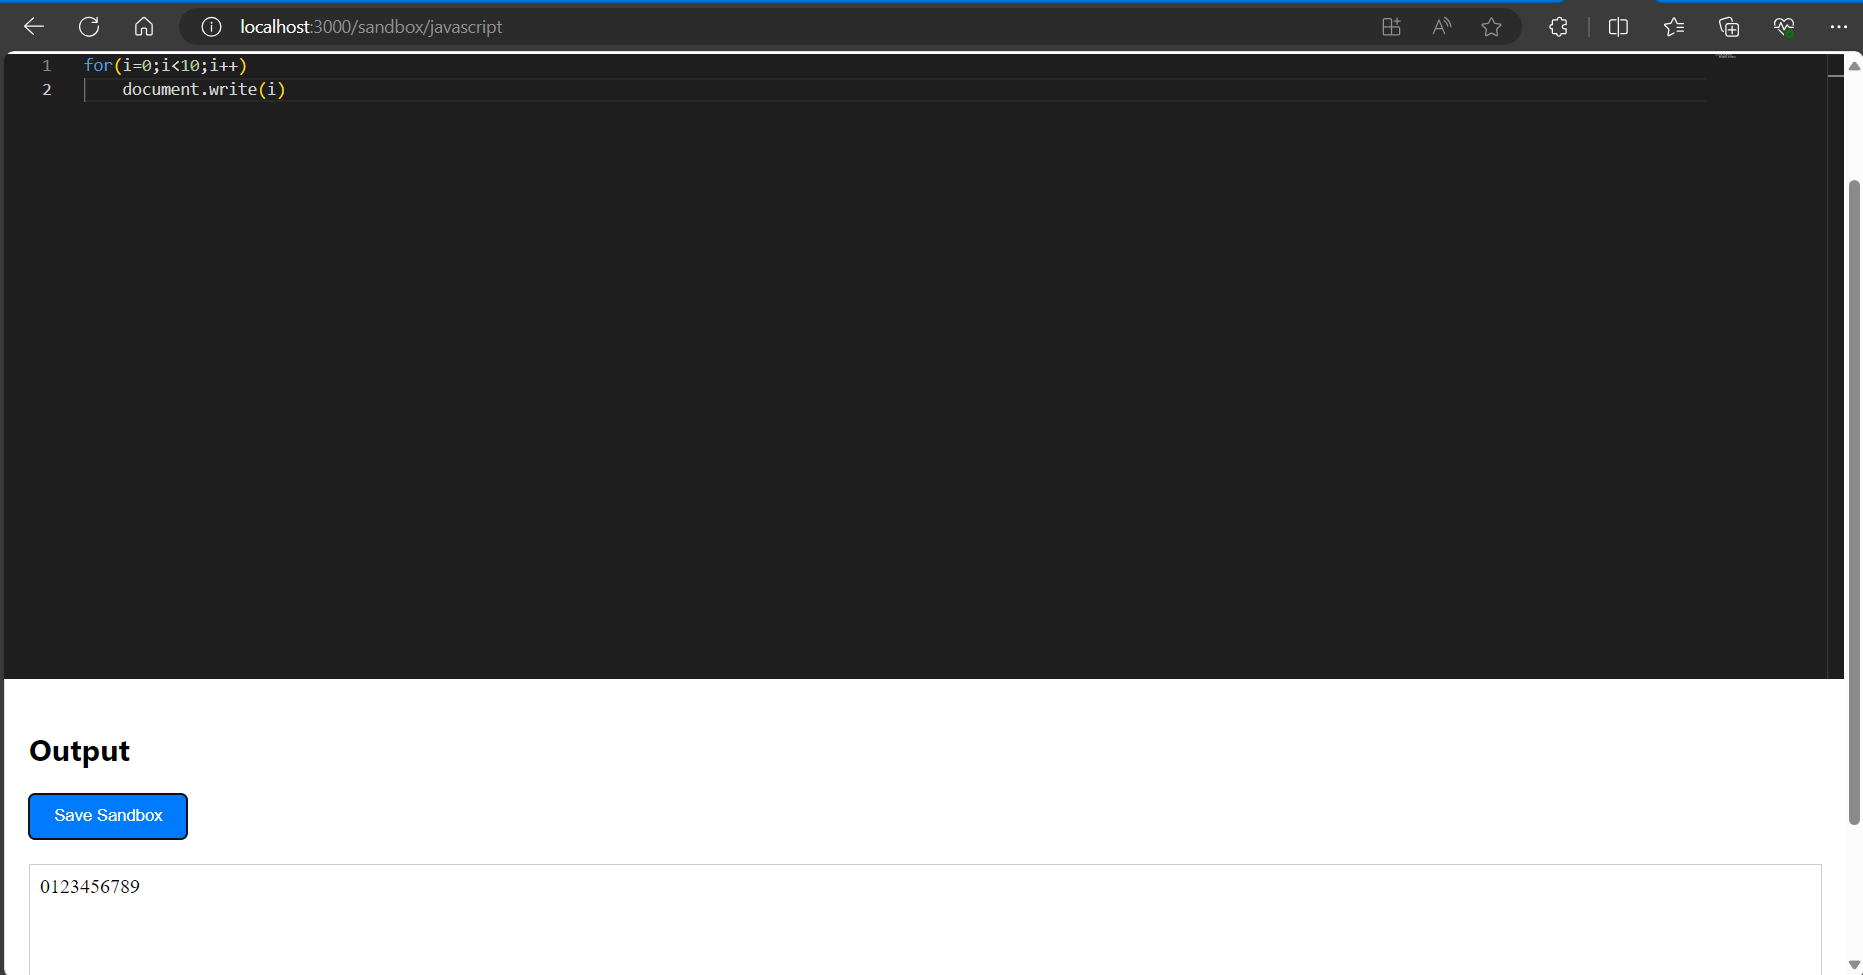
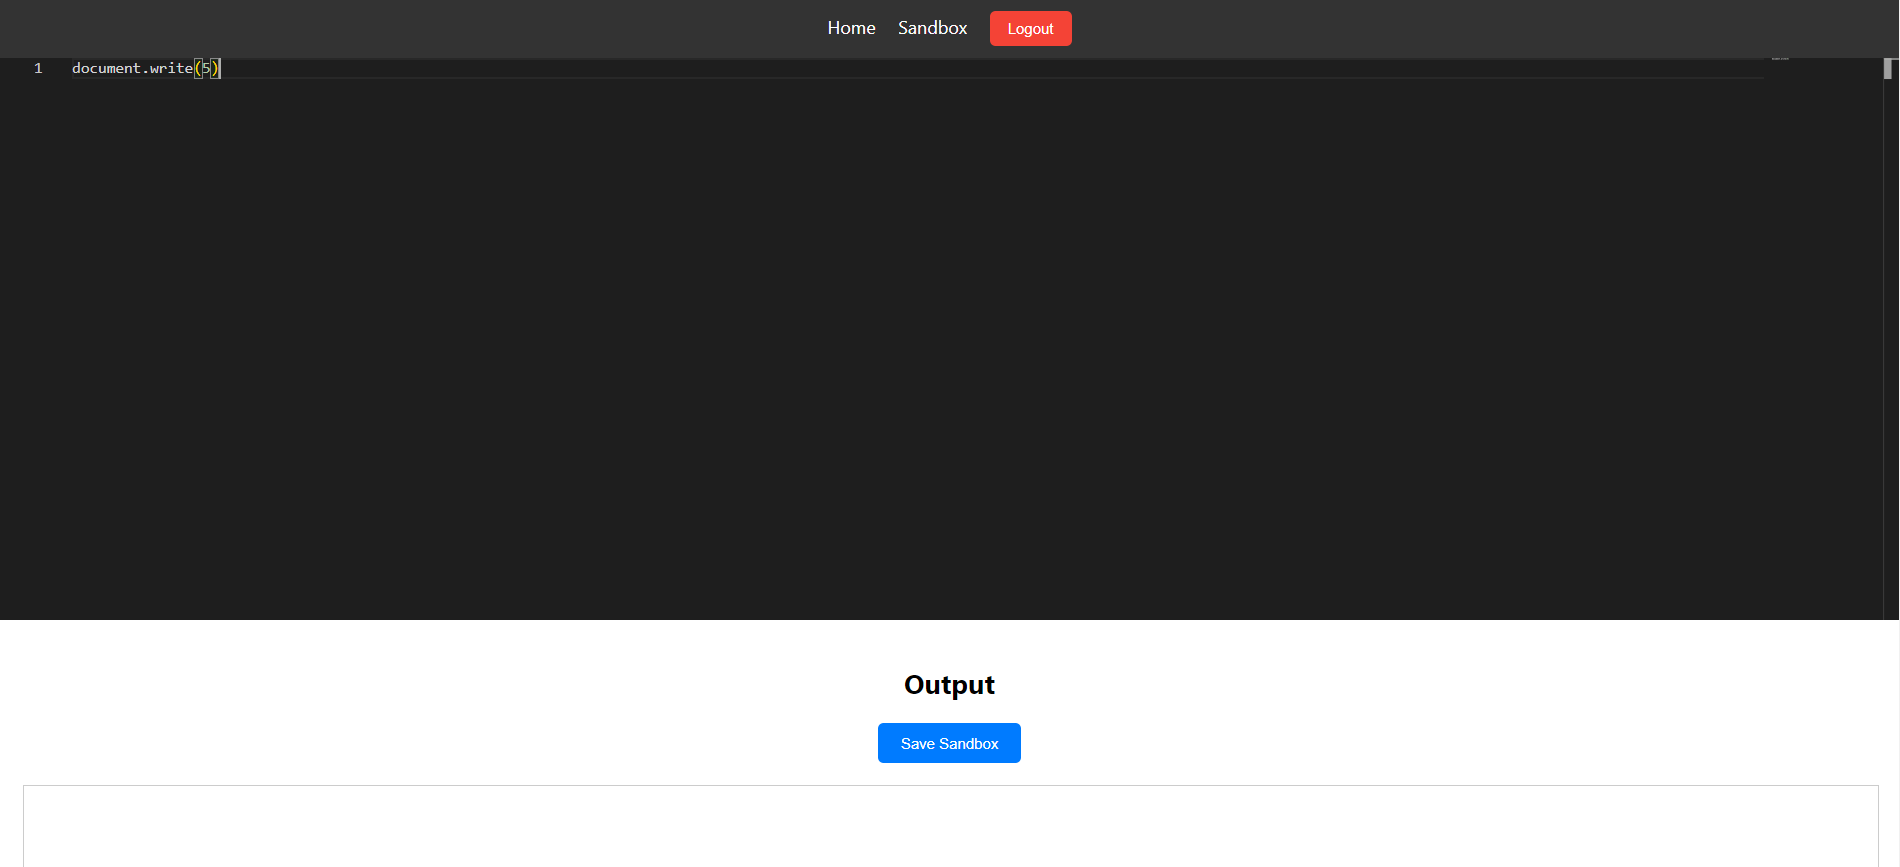
Tweaked App.js - added nav, logout

diff --git a/backend/server.js b/backend/server.js
@@ -4,7 +4,6 @@ const bodyParser = require('body-parser');
 const jwt = require('jsonwebtoken');
 const cors = require('cors');
 const Sandbox = require('./models/Sandbox');
-const sandboxRouter = require('./routes/sandbox');
 
 const app = express();
 app.use(bodyParser.json());
@@ -17,7 +16,7 @@ mongoose.connect('mongodb+srv://admin:admin@cluster0.qiriojy.mongodb.net/')
   .then(() => console.log('MongoDB connected'))
   .catch(err => console.error(err));
 
-// Define User schema
+// usr model
 const userSchema = new mongoose.Schema({
   username: String,
   password: String
@@ -25,14 +24,6 @@ const userSchema = new mongoose.Schema({
 
 const User = mongoose.model('User', userSchema);
 
-// Define Sandbox schema
-//const sandboxSchema = new mongoose.Schema({
-  // userId: String,
-  // code: String,
-  // output: String
-//});
-
-//const Sandbox = mongoose.model('Sandbox', sandboxSchema);
 
 // Login endpoint
 app.post('/login', async (req, res) => {
@@ -43,7 +34,6 @@ app.post('/login', async (req, res) => {
       return res.status(401).json({ message: 'Invalid username or password' });
     }
     const token = jwt.sign({ userId: user._id }, secretKey);
-    // Return the token along with the userId
     res.json({ token, userId: user._id });
   } catch (error) {
     res.status(500).json({ message: error.message });
@@ -64,68 +54,56 @@ app.post('/signup', async (req, res) => {
   }
 });
 
-// Middleware to verify JWT token
-// function verifyToken(req, res, next) {
-//   const token = req.headers['authorization'];
-//   if (!token) return res.status(401).json({ message: 'Token is required' });
 
-//   jwt.verify(token, secretKey, (err, decoded) => {
-//     if (err) return res.status(401).json({ message: 'Invalid token' });
+function verifyToken(req, res, next) {
+  const token = req.headers['authorization'];
+  if (!token) return res.status(401).json({ message: 'Token is required' });
 
-//     req.userId = decoded.userId;
-//     next();
-//   });
-// }
+  jwt.verify(token, secretKey, (err, decoded) => {
+    if (err) return res.status(401).json({ message: 'Invalid token' });
+
+    req.userId = decoded.userId;
+    next();
+  });
+}
 
 app.post('/api/sandbox', async (req, res) => {
   const { userId, code, output } = req.body;
   console.log('Request Payload:', req.body);
 
   try {
-    // Create a new Sandbox document
     const newSandbox = new Sandbox({
       userId: userId,
       code: code,
-      output: output || '' // Set output to empty string if not provided
+      output: output || ''
     });
 
-    // Save the sandbox data to MongoDB
     await newSandbox.save();
-
     // Log success message
     console.log('Sandbox data saved successfully:', newSandbox);
-
-    // Send success response to the client
     res.status(201).json({ message: 'Sandbox data saved successfully', sandbox: newSandbox });
   } catch (error) {
-    // Log error message
+   
     console.error('Error saving sandbox data:', error);
-
-    // Send error response to the client
     res.status(500).json({ message: 'Failed to save sandbox data', error: error.message });
   }
 });
 
-// Modify the route to handle requests to retrieve sandbox information by userId
+
 app.get('/api/sandbox/:userId', async (req, res) => {
   const userId = req.params.userId;
 
   try {
     // Find the sandbox by userId in the database
     const sandboxes = await Sandbox.find({ userId });
-    
-    // If sandboxes are found, return them in the response
     res.json(sandboxes);
   } catch (error) {
-    // If an error occurs, return a 500 Internal Server Error
+
     res.status(500).json({ message: 'Internal Server Error' });
   }
 });
 
 
-
-
-//app.use('/api/sandbox', sandboxRouter);
 // Start server
 const port = process.env.PORT || 5000;
 app.listen(port, () => console.log(`Server is running on port ${port}`));

diff --git a/frontend/src/App.js b/frontend/src/App.js
@@ -1,41 +1,46 @@
 import React, { useState } from 'react';
-import { BrowserRouter as Router, Routes, Route, Link, useNavigate } from 'react-router-dom';
+import { BrowserRouter as Router, Routes, Route, Link } from 'react-router-dom';
 import Login from './components/Login';
 import Signup from './components/Signup';
 import Home from './components/Home';
 import Sandbox from './components/Sandbox';
+import './App.css'
 
 function App() {
   const [isAuthenticated, setIsAuthenticated] = useState(false);
-  const [userId, setUserId] = useState(null); // Add userId state
+  const [userId, setUserId] = useState(null); 
 
   const handleLoginSuccess = (userId) => {
     setIsAuthenticated(true);
     setUserId(userId);
-    console.log(userId)
   };
 
   const handleSignupSuccess = () => {
     setIsAuthenticated(true);
   };
 
+  const handleLogout = () => {
+    setIsAuthenticated(false);
+    setUserId(null);
+  };
+
   return (
     <Router>
       <div className="App">
-        <nav>
-          <ul>
+        <nav className="navbar">
+          <ul className="nav-links">
             <li><Link to="/">Home</Link></li>
-            <li><Link to="/login">Login</Link></li>
-            <li><Link to="/signup">Signup</Link></li>
-            <li><Link to="/sandbox/javascript">Sandbox</Link></li>
+            {!isAuthenticated && <li><Link to="/login">Login</Link></li>}
+            {!isAuthenticated && <li><Link to="/signup">Signup</Link></li>}
+            {isAuthenticated && <li><Link to="/sandbox/javascript">Sandbox</Link></li>}
+            {isAuthenticated && <li><button onClick={handleLogout}>Logout</button></li>}
           </ul>
         </nav>
 
         <Routes>
           <Route path="/login" element={<Login onLoginSuccess={handleLoginSuccess} />} />
           <Route path="/signup" element={<Signup onSignupSuccess={handleSignupSuccess} />} />
-          {/* Pass userId as a prop to Sandbox component */}
-          <Route path="/sandbox/javascript" element={<Sandbox userId={userId} />} />
+          <Route path="/sandbox/javascript" element={isAuthenticated ? <Sandbox userId={userId} /> : <Login />} />
           <Route path="/" element={<Home isAuthenticated={isAuthenticated} userId={userId} />} />
         </Routes>
       </div>

diff --git a/frontend/src/App.css b/frontend/src/App.css
@@ -36,3 +36,48 @@
     transform: rotate(360deg);
   }
 }
+
+/* Navigation Bar */
+/* styles.css */
+.navbar {
+  background-color: #333; /* Background color for the navbar */
+  padding: 10px; /* Padding for the navbar */
+}
+
+.nav-links {
+  list-style-type: none; /* Remove bullet points from the list */
+  margin: 0; /* Remove default margin */
+  padding: 0; /* Remove default padding */
+}
+
+.nav-links li {
+  display: inline; /* Display list items horizontally */
+  margin-right: 20px; /* Add spacing between list items */
+}
+
+.nav-links li:last-child {
+  margin-right: 0; /* Remove margin from the last list item */
+}
+
+.nav-links li a {
+  color: #fff; /* Text color for the links */
+  text-decoration: none; /* Remove underline from the links */
+}
+
+.nav-links li a:hover {
+  text-decoration: underline; /* Underline links on hover */
+}
+
+.nav-links li button {
+  background-color: #f44336; /* Red color for the logout button background */
+  color: #fff; /* White color for the logout button text */
+  border: none; /* Remove button border */
+  padding: 8px 16px; /* Add padding to the button */
+  border-radius: 5px; /* Add border radius for rounded corners */
+  cursor: pointer; /* Change cursor to pointer on hover */
+  transition: background-color 0.3s ease; /* Smooth transition for background color change */
+}
+
+.nav-links li button:hover {
+  background-color: #d32f2f; /* Darker red color on button hover */
+}

diff --git a/frontend/src/components/Sandbox.js b/frontend/src/components/Sandbox.js
@@ -7,12 +7,11 @@ const Sandbox = ({ userId }) => {
   const [code, setCode] = useState('');
   const [isCodeRunning, setIsCodeRunning] = useState(false);
 
-  // Function to handle acknowledging the end of code execution
+  //acknowledge end
   const handleAcknowledgeEnd = async () => {
-    setIsCodeRunning(true); // Set code running state to true
+    setIsCodeRunning(true); 
   };
 
-  // Function to save the sandbox
   const saveSandbox = async (output) => {
     try {
       // Remove the code part from the output
@@ -21,16 +20,16 @@ const Sandbox = ({ userId }) => {
       const response = await axios.post('http://localhost:5000/api/sandbox', {
         userId: userId,
         code: code,
-        output: cleanedOutput || '' // Set output to empty string if not provided
+        output: cleanedOutput || '' 
       });
-      console.log(response.data); // Log response for debugging
+      console.log(response.data); // debug
       alert('Sandbox saved successfully!');
     } catch (error) {
       console.error('Error saving sandbox:', error);
     }
   };
 
-  // useEffect hook to save the sandbox when the code running state changes
+  
   useEffect(() => {
     if (isCodeRunning) {
       // Get the iframe element

diff --git a/frontend/src/components/Login.js b/frontend/src/components/Login.js
@@ -12,13 +12,10 @@ const Login = ({ onLoginSuccess }) => {
   const handleSubmit = async (e) => {
     e.preventDefault();
     try {
-      const response = await axios.post('http://localhost:5000/login', { username, password });
-      // Assuming the response contains the userId
+      const response = await axios.post('http://localhost:5000/login', { username, password })
       const { userId } = response.data;
       console.log(response.data)
-      // Call the onLoginSuccess function with userId
       onLoginSuccess(userId);
-      // Navigate to Home after successful login
       navigate('/');
     } catch (error) {
       setError(error.response.data.message);

diff --git a/frontend/src/components/Signup.js b/frontend/src/components/Signup.js
@@ -13,9 +13,7 @@ const Signup = ({ onSignupSuccess }) => {
     e.preventDefault();
     try {
       const response = await axios.post('http://localhost:5000/signup', { username, password });
-      // Handle successful signup
       onSignupSuccess();
-      // Navigate to Home after successful signup
       navigate('/');
     } catch (error) {
       setError(error.response.data.message);

diff --git a/frontend/src/components/Home.js b/frontend/src/components/Home.js
@@ -23,7 +23,7 @@ const Home = ({ isAuthenticated, userId }) => {
 
   return (
     <div className="home-container">
-      <h2>Home</h2>
+      <h2>CodeSandBox - from Adithya</h2>
       <p className="home-message">
         {isAuthenticated ? 'You are logged in!' : 'Please login or signup to continue.'}
       </p>

diff --git a/frontend/src/components/Login.css b/frontend/src/components/Login.css
@@ -9,6 +9,7 @@
   .login-form {
     width: 300px;
     padding: 20px;
+    padding-right: 40px;
     border: 1px solid #ccc;
     border-radius: 5px;
   }

diff --git a/frontend/src/components/Signup.css b/frontend/src/components/Signup.css
@@ -11,6 +11,7 @@
     padding: 20px;
     border: 1px solid #ccc;
     border-radius: 5px;
+    padding-right: 40px;
   }
   
   .signup-form input {

diff --git a/frontend/src/components/Sandbox.css b/frontend/src/components/Sandbox.css
@@ -40,3 +40,4 @@
 .output-text {
   white-space: pre-wrap;
 }
+
